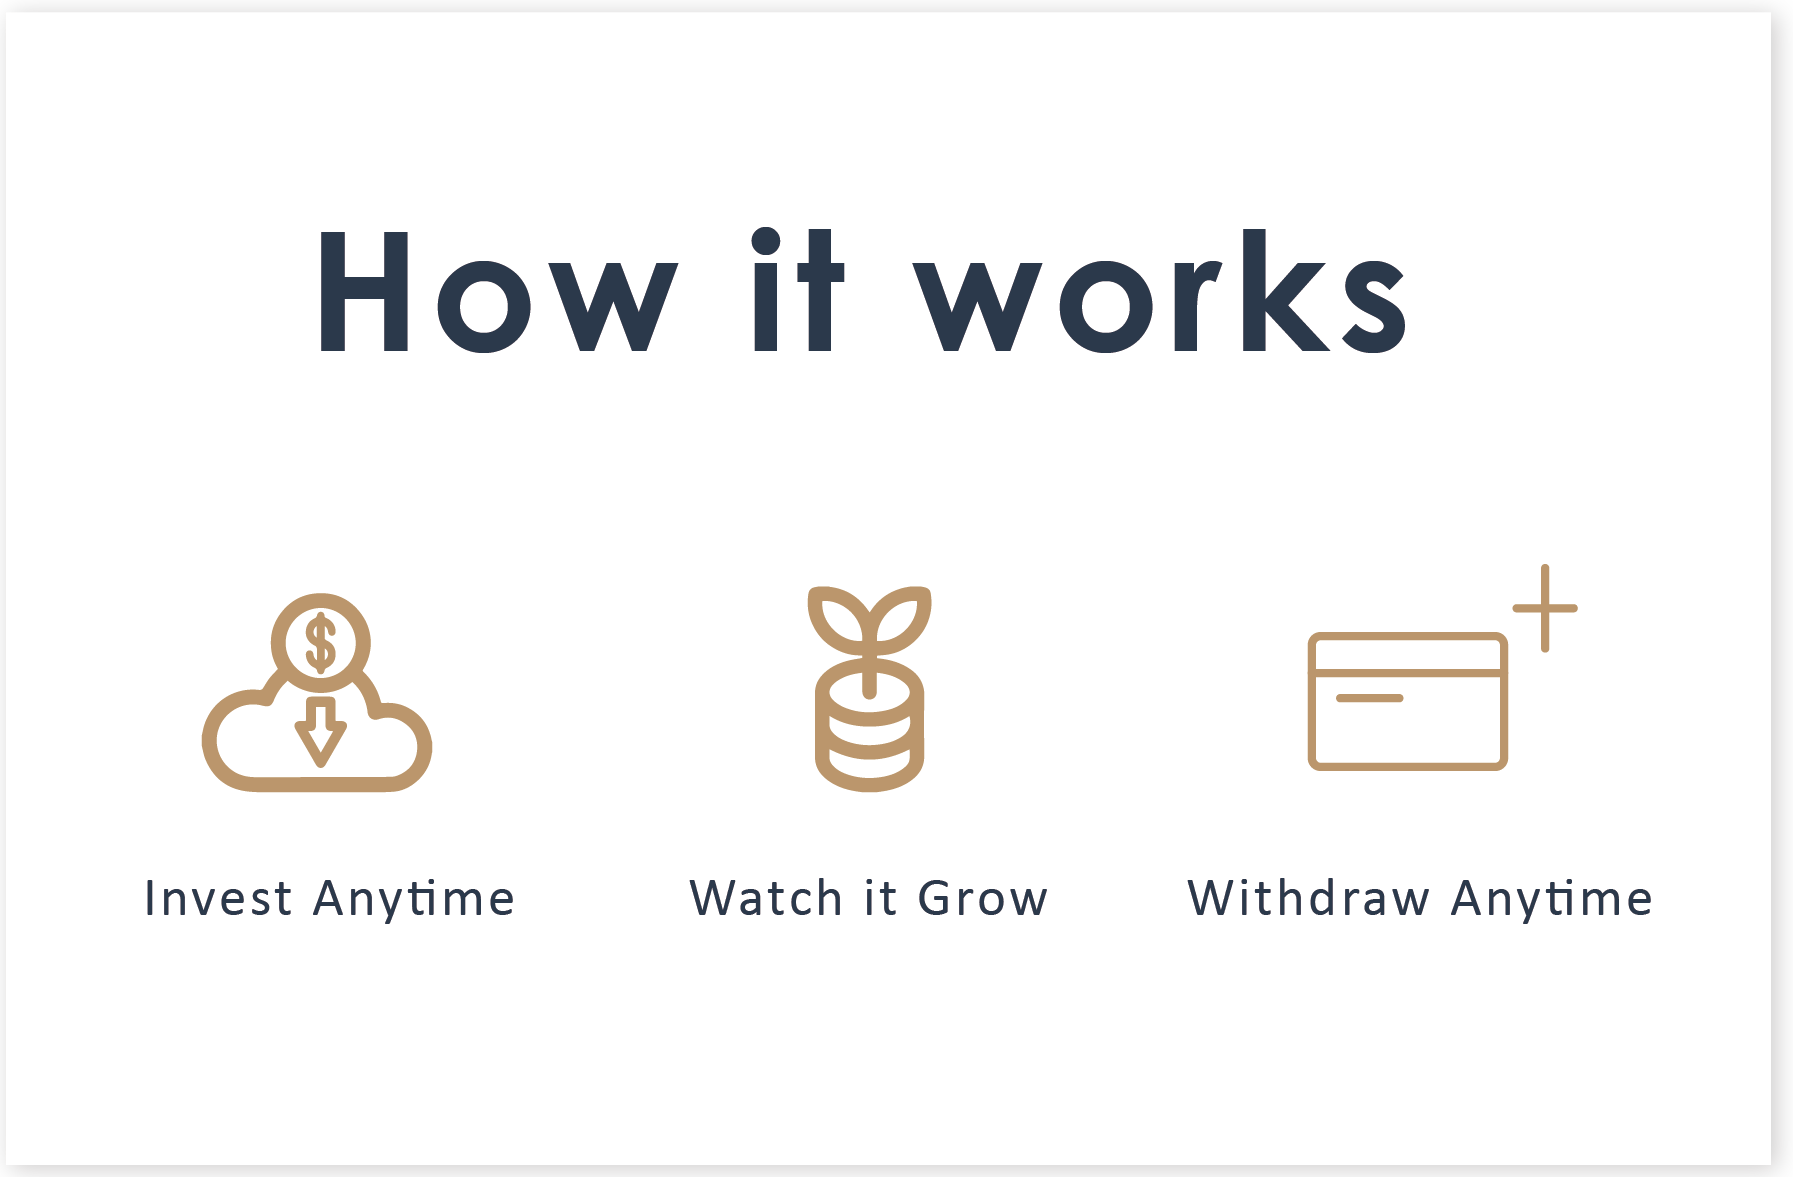
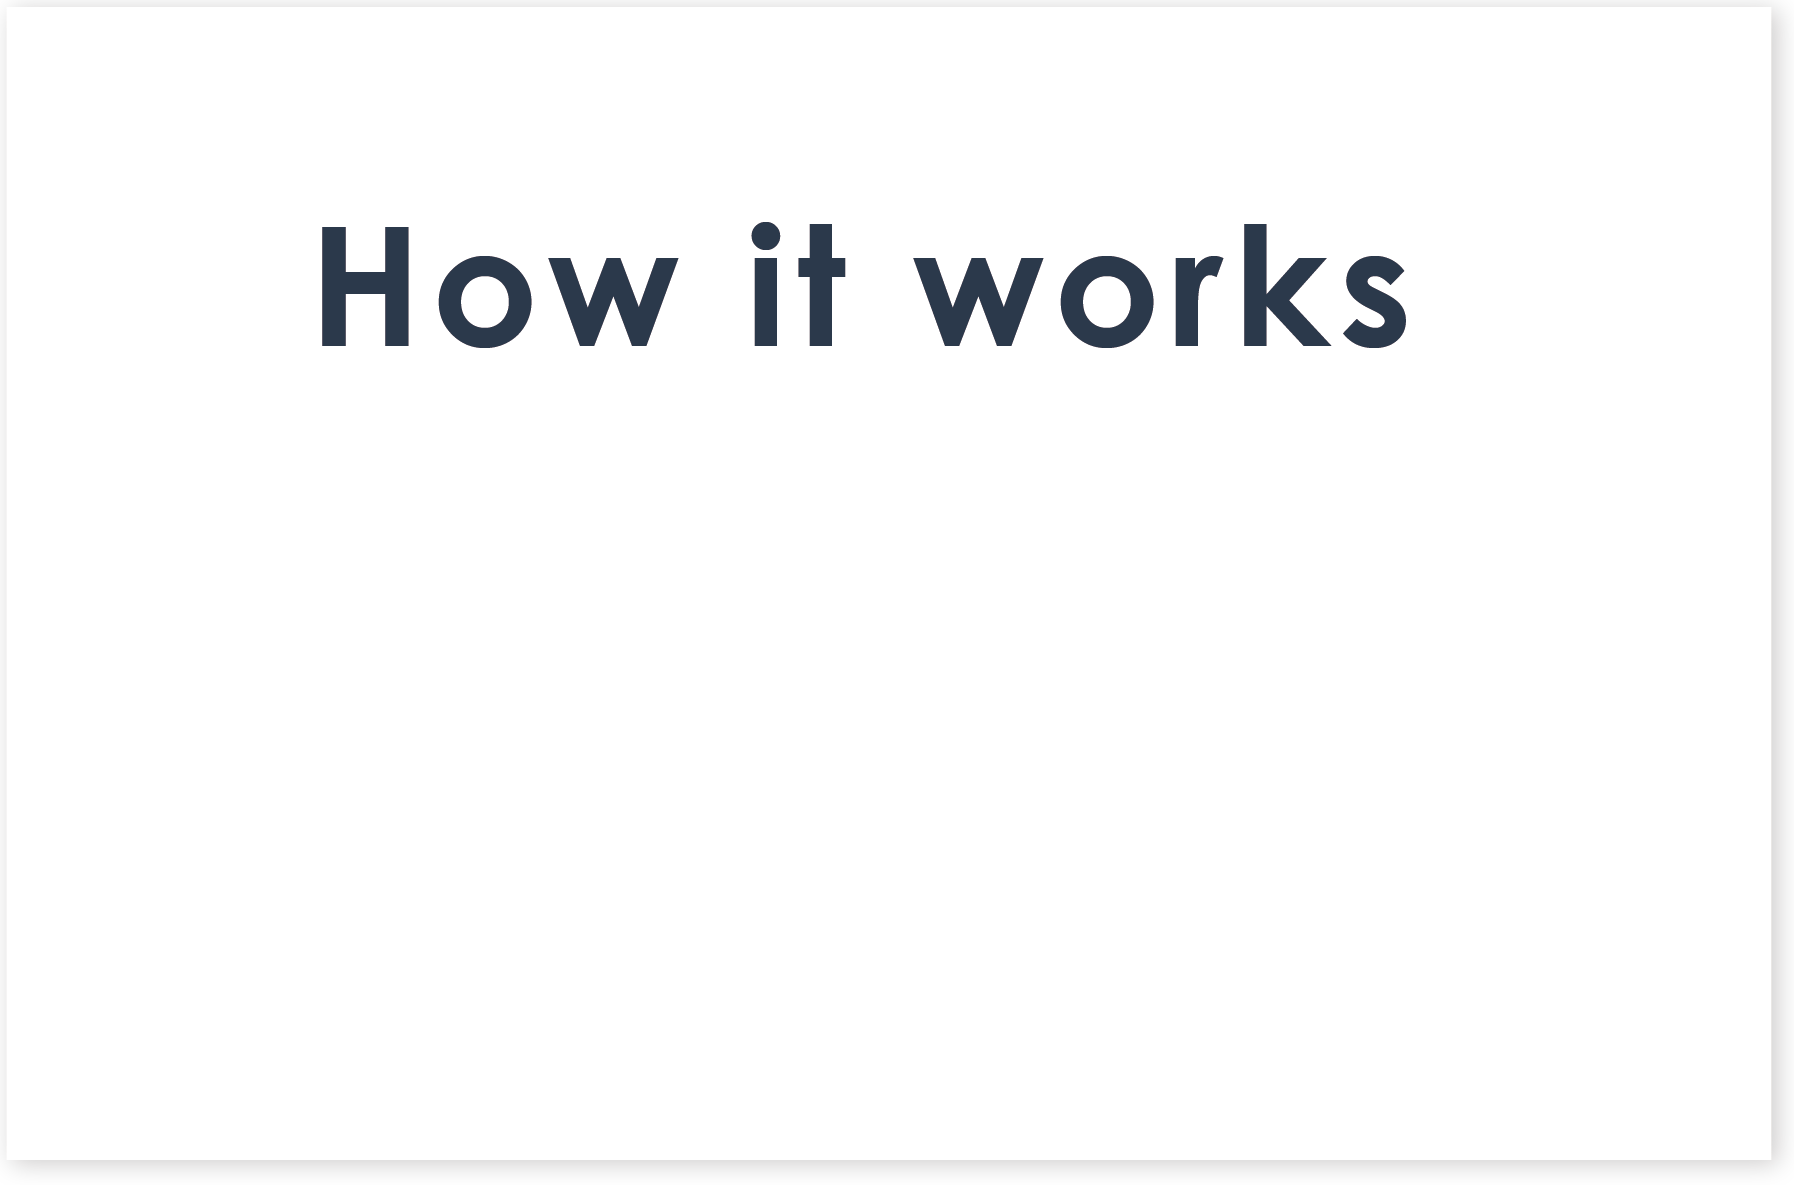
the picture fadeIn not ready

diff --git a/Fintech/plugin/jquery-3.1.1/jquery.easing.min.js b/Fintech/plugin/jquery-3.1.1/jquery.easing.min.js
@@ -1,0 +1,44 @@
+/*
+ * jQuery Easing v1.3 - http://gsgd.co.uk/sandbox/jquery/easing/
+ *
+ * Uses the built in easing capabilities added In jQuery 1.1
+ * to offer multiple easing options
+ *
+ * TERMS OF USE - EASING EQUATIONS
+ * 
+ * Open source under the BSD License. 
+ * 
+ * Copyright Ã‚Â© 2001 Robert Penner
+ * All rights reserved.
+ *
+ * TERMS OF USE - jQuery Easing
+ * 
+ * Open source under the BSD License. 
+ * 
+ * Copyright Ã‚Â© 2008 George McGinley Smith
+ * All rights reserved.
+ *
+ * Redistribution and use in source and binary forms, with or without modification, 
+ * are permitted provided that the following conditions are met:
+ * 
+ * Redistributions of source code must retain the above copyright notice, this list of 
+ * conditions and the following disclaimer.
+ * Redistributions in binary form must reproduce the above copyright notice, this list 
+ * of conditions and the following disclaimer in the documentation and/or other materials 
+ * provided with the distribution.
+ * 
+ * Neither the name of the author nor the names of contributors may be used to endorse 
+ * or promote products derived from this software without specific prior written permission.
+ * 
+ * THIS SOFTWARE IS PROVIDED BY THE COPYRIGHT HOLDERS AND CONTRIBUTORS "AS IS" AND ANY 
+ * EXPRESS OR IMPLIED WARRANTIES, INCLUDING, BUT NOT LIMITED TO, THE IMPLIED WARRANTIES OF
+ * MERCHANTABILITY AND FITNESS FOR A PARTICULAR PURPOSE ARE DISCLAIMED. IN NO EVENT SHALL THE
+ *  COPYRIGHT OWNER OR CONTRIBUTORS BE LIABLE FOR ANY DIRECT, INDIRECT, INCIDENTAL, SPECIAL,
+ *  EXEMPLARY, OR CONSEQUENTIAL DAMAGES (INCLUDING, BUT NOT LIMITED TO, PROCUREMENT OF SUBSTITUTE
+ *  GOODS OR SERVICES; LOSS OF USE, DATA, OR PROFITS; OR BUSINESS INTERRUPTION) HOWEVER CAUSED 
+ * AND ON ANY THEORY OF LIABILITY, WHETHER IN CONTRACT, STRICT LIABILITY, OR TORT (INCLUDING
+ *  NEGLIGENCE OR OTHERWISE) ARISING IN ANY WAY OUT OF THE USE OF THIS SOFTWARE, EVEN IF ADVISED 
+ * OF THE POSSIBILITY OF SUCH DAMAGE. 
+ *
+*/
+jQuery.easing.jswing=jQuery.easing.swing;jQuery.extend(jQuery.easing,{def:"easeOutQuad",swing:function(e,f,a,h,g){return jQuery.easing[jQuery.easing.def](e,f,a,h,g)},easeInQuad:function(e,f,a,h,g){return h*(f/=g)*f+a},easeOutQuad:function(e,f,a,h,g){return -h*(f/=g)*(f-2)+a},easeInOutQuad:function(e,f,a,h,g){if((f/=g/2)<1){return h/2*f*f+a}return -h/2*((--f)*(f-2)-1)+a},easeInCubic:function(e,f,a,h,g){return h*(f/=g)*f*f+a},easeOutCubic:function(e,f,a,h,g){return h*((f=f/g-1)*f*f+1)+a},easeInOutCubic:function(e,f,a,h,g){if((f/=g/2)<1){return h/2*f*f*f+a}return h/2*((f-=2)*f*f+2)+a},easeInQuart:function(e,f,a,h,g){return h*(f/=g)*f*f*f+a},easeOutQuart:function(e,f,a,h,g){return -h*((f=f/g-1)*f*f*f-1)+a},easeInOutQuart:function(e,f,a,h,g){if((f/=g/2)<1){return h/2*f*f*f*f+a}return -h/2*((f-=2)*f*f*f-2)+a},easeInQuint:function(e,f,a,h,g){return h*(f/=g)*f*f*f*f+a},easeOutQuint:function(e,f,a,h,g){return h*((f=f/g-1)*f*f*f*f+1)+a},easeInOutQuint:function(e,f,a,h,g){if((f/=g/2)<1){return h/2*f*f*f*f*f+a}return h/2*((f-=2)*f*f*f*f+2)+a},easeInSine:function(e,f,a,h,g){return -h*Math.cos(f/g*(Math.PI/2))+h+a},easeOutSine:function(e,f,a,h,g){return h*Math.sin(f/g*(Math.PI/2))+a},easeInOutSine:function(e,f,a,h,g){return -h/2*(Math.cos(Math.PI*f/g)-1)+a},easeInExpo:function(e,f,a,h,g){return(f==0)?a:h*Math.pow(2,10*(f/g-1))+a},easeOutExpo:function(e,f,a,h,g){return(f==g)?a+h:h*(-Math.pow(2,-10*f/g)+1)+a},easeInOutExpo:function(e,f,a,h,g){if(f==0){return a}if(f==g){return a+h}if((f/=g/2)<1){return h/2*Math.pow(2,10*(f-1))+a}return h/2*(-Math.pow(2,-10*--f)+2)+a},easeInCirc:function(e,f,a,h,g){return -h*(Math.sqrt(1-(f/=g)*f)-1)+a},easeOutCirc:function(e,f,a,h,g){return h*Math.sqrt(1-(f=f/g-1)*f)+a},easeInOutCirc:function(e,f,a,h,g){if((f/=g/2)<1){return -h/2*(Math.sqrt(1-f*f)-1)+a}return h/2*(Math.sqrt(1-(f-=2)*f)+1)+a},easeInElastic:function(f,h,e,l,k){var i=1.70158;var j=0;var g=l;if(h==0){return e}if((h/=k)==1){return e+l}if(!j){j=k*0.3}if(g<Math.abs(l)){g=l;var i=j/4}else{var i=j/(2*Math.PI)*Math.asin(l/g)}return -(g*Math.pow(2,10*(h-=1))*Math.sin((h*k-i)*(2*Math.PI)/j))+e},easeOutElastic:function(f,h,e,l,k){var i=1.70158;var j=0;var g=l;if(h==0){return e}if((h/=k)==1){return e+l}if(!j){j=k*0.3}if(g<Math.abs(l)){g=l;var i=j/4}else{var i=j/(2*Math.PI)*Math.asin(l/g)}return g*Math.pow(2,-10*h)*Math.sin((h*k-i)*(2*Math.PI)/j)+l+e},easeInOutElastic:function(f,h,e,l,k){var i=1.70158;var j=0;var g=l;if(h==0){return e}if((h/=k/2)==2){return e+l}if(!j){j=k*(0.3*1.5)}if(g<Math.abs(l)){g=l;var i=j/4}else{var i=j/(2*Math.PI)*Math.asin(l/g)}if(h<1){return -0.5*(g*Math.pow(2,10*(h-=1))*Math.sin((h*k-i)*(2*Math.PI)/j))+e}return g*Math.pow(2,-10*(h-=1))*Math.sin((h*k-i)*(2*Math.PI)/j)*0.5+l+e},easeInBack:function(e,f,a,i,h,g){if(g==undefined){g=1.70158}return i*(f/=h)*f*((g+1)*f-g)+a},easeOutBack:function(e,f,a,i,h,g){if(g==undefined){g=1.70158}return i*((f=f/h-1)*f*((g+1)*f+g)+1)+a},easeInOutBack:function(e,f,a,i,h,g){if(g==undefined){g=1.70158}if((f/=h/2)<1){return i/2*(f*f*(((g*=(1.525))+1)*f-g))+a}return i/2*((f-=2)*f*(((g*=(1.525))+1)*f+g)+2)+a},easeInBounce:function(e,f,a,h,g){return h-jQuery.easing.easeOutBounce(e,g-f,0,h,g)+a},easeOutBounce:function(e,f,a,h,g){if((f/=g)<(1/2.75)){return h*(7.5625*f*f)+a}else{if(f<(2/2.75)){return h*(7.5625*(f-=(1.5/2.75))*f+0.75)+a}else{if(f<(2.5/2.75)){return h*(7.5625*(f-=(2.25/2.75))*f+0.9375)+a}else{return h*(7.5625*(f-=(2.625/2.75))*f+0.984375)+a}}}},easeInOutBounce:function(e,f,a,h,g){if(f<g/2){return jQuery.easing.easeInBounce(e,f*2,0,h,g)*0.5+a}return jQuery.easing.easeOutBounce(e,f*2-g,0,h,g)*0.5+h*0.5+a}});

diff --git a/Fintech/index.html b/Fintech/index.html
@@ -10,21 +10,22 @@
     <!-- Bootstrap 3.3.0 -->
     <link rel="stylesheet" type="text/css" href="plugin/bootstrap-3.3.7/css/bootstrap.min.css">
     <script type="text/javascript" src="plugin/bootstrap-3.3.7/js/bootstrap.min.js"></script>
+    <script src="plugin/jquery-3.1.1/jquery.easing.min.js"></script>
     <!-- Font Awesome 4.7.0 -->
     <link rel="stylesheet" type="text/css" href="plugin/font-awesome-4.7.0/css/font-awesome.min.css">
     <!-- Custome Fonts -->
     <!-- Custom CSS -->
     <link rel="stylesheet" type="text/css" href="css/theme.css"> 
     <!-- Custom JavaScript -->
-    <link rel="text/javascript" href="js/javascript.js">
+    <script type="text/javascript" src="js/javascript.js"></script> 
 </head>
 
-<body data-spy="scroll" data-target=".navbar" data-offset="50">
+<body data-spy="scroll" data-target=".navbar-fixed-top" data-offset="50">
     <!-- NavBar start -->
     <nav class="navbar navbar-default navbar-fixed-top" role="navigation">
-        <div class="container-fluid">
+        <div class="container">
     <!-- Brand and toggle get grouped for better mobile display -->
-    <div class="navbar-header" >
+    <div class="navbar-header page-scroll" >
         <div>
             <button type="button" class="navbar-toggle collapsed" data-toggle="collapse" data-target="#bs-example-navbar-collapse-1" aria-expanded="false">
                 <span class="sr-only">Toggle navigation</span>
@@ -32,6 +33,7 @@
                 <span class="icon-bar"></span>
                 <span class="icon-bar"></span>
             </button>
+            <a class="navbar-brand page-scroll" href="#home"></a>
         </div>
     <img id="JORGENSTUDIOS" src="img/JORGENSTUDIOS.png" style="width:40%;height:auto;" >
     </div>
@@ -39,10 +41,10 @@
     <!-- Collect the nav links, forms, and other content for toggling -->
     <div class="collapse navbar-collapse" id="bs-example-navbar-collapse-1">
       <ul class="nav navbar-nav navbar-right" id="underline">
-        <li><a href="#home">HOME</a></li>
-        <li><a href="#about">ABOUT</a></li>
-        <li><a href="#video">VIDEO</a></li>
-        <li><a href="#login">LOGIN</a></li>
+        <li><a class="page-scroll" href="#home">HOME</a></li>
+        <li><a class="page-scroll" href="#about">ABOUT</a></li>
+        <li><a class="page-scroll" href="#video">VIDEO</a></li>
+        <li><a class="page-scroll" href="#login">LOGIN</a></li>
       </ul>
     </div><!-- /.navbar-collapse -->
     </div><!-- /.container-fluid -->
@@ -93,7 +95,10 @@
                     <img id="image1" src="img/about_image.png">
                 </div>
                 <div>
-                    <img id="image2" src="img/Howitworks.png">
+                    <img id="Howitworks" src="img/Howitworks.png"> 
+                    <img id="about_A"  class="about_picture" src="img/about_A.png">
+                    <img id="about_B"  class="about_picture" src="img/about_B.png">
+                    <img id="about_C"  class="about_picture" src="img/about_C.png">
                 </div>
                 <div id="dotted_line_about" class="dotted_line">
                     <img src="img/dotted_line.png">

diff --git a/Fintech/css/theme.css b/Fintech/css/theme.css
@@ -141,8 +141,8 @@ body {
     top: -36%;
     left: 13.85%;
     z-index: 5;
-    -webkit-animation: mousemove 5s infinite; /* Safari 4.0 - 8.0 */
-    animation: mousemove 5s infinite;
+    -webkit-animation: mousemove 3s infinite; /* Safari 4.0 - 8.0 */
+    animation: mousemove 3s infinite;
 }
 
 #mouse img{
@@ -153,17 +153,19 @@ body {
 
 @-webkit-keyframes mousemove {
     0%   {top: -36%;}
-    25%  {top: -30%;}
-    75%  {top: -36%;}
-    100% {top: -30%;}
+    25%  {top: -33%;}
+    50%  {top: -30%;}
+    75%  {top: -33%;}
+    100% {top: -36%;}
 }
 
 /* Standard syntax */
 @keyframes mousemove {
     0%   {top: -36%;}
-    25%  {top: -30%;}
-    75%  {top: -36%}
-    100% {top: -30%}
+    /*25%  {top: -33%;}*/
+    50%  {top: -30%;}
+    /*75%  {top: -33%;}*/
+    100% {top: -36%;}
 }
 
 #about{
@@ -187,7 +189,7 @@ body {
 #dotted_line_about {
     height: 50%;
     width: 5%;
-    top: 35%;
+    top: -10%;
     position: relative;
     z-index: 5;
     right: -85%;
@@ -203,7 +205,7 @@ body {
     height: 20%;
     width: 2.8%;
     position: relative;
-    top: -8%;
+    top: -50%;
     left: 83.87%;
     z-index: 5;
     -webkit-animation: mousemove_about 5s infinite; /* Safari 4.0 - 8.0 */
@@ -217,18 +219,18 @@ body {
 }
 
 @-webkit-keyframes mousemove_about {
-    0%   {top: -8%;}
-    25%  {top: 10%;}
-    75%  {top: -8%;}
-    100% {top: 10%;}
+    0%   {top: -50%;}
+    25%  {top: -20%;}
+    75%  {top: -50%;}
+    100% {top: -20%;}
 }
 
 /* Standard syntax */
 @keyframes mousemove_about {
-    0%   {top: -8%;}
-    25%  {top: 10%;}
-    75%  {top: -8%}
-    100% {top: 10%}
+    0%   {top: -50%;}
+    25%  {top: -20%;}
+    75%  {top: -50%}
+    100% {top: -20%}
 }
 
 #about_background #about_image > img{
@@ -240,12 +242,42 @@ body {
     z-index: 2;
 }
 
-#image2{
-    position: absolute;
+
+.about_picture img{
+    position: relative;
+    display: none;
+}
+
+#Howitworks{
+    position: relative;
+    z-index: 5;
     width: 65%;
-    top: 115%;
+    margin-top: -37.5%;
     left: 48%;
-    z-index: 1;
+}
+
+#about_A{
+    position: relative;
+    z-index: 10;
+    width: 15%;
+    margin-top: -24%;
+    left: -12%;
+}
+
+#about_B{
+    position: relative;
+    z-index: 10;
+    width: 14%;
+    margin-top: -24%;
+    left: -7%;
+}
+
+#about_C{
+    position: relative;
+    z-index: 10;
+    width: 18%;
+    margin-top: -32.5%;
+    left: 92%;
 }
 
 #video{

diff --git a/Fintech/js/javascript.js b/Fintech/js/javascript.js
@@ -1,0 +1,19 @@
+//jQuery to collapse the navbar on scroll
+$(window).scroll(function() {
+    if ($(".navbar").offset().top > 50) {
+        $(".navbar-fixed-top").addClass("top-nav-collapse");
+    } else {
+        $(".navbar-fixed-top").removeClass("top-nav-collapse");
+    }
+});
+
+//jQuery for page scrolling feature - requires jQuery Easing plugin
+$(function() {
+    $(document).on('click', 'a.page-scroll', function(event) {
+        var $anchor = $(this);
+        $('html, body').stop().animate({
+            scrollTop: $($anchor.attr('href')).offset().top
+        }, 1500, 'easeInOutExpo');
+        event.preventDefault();
+    });
+});
